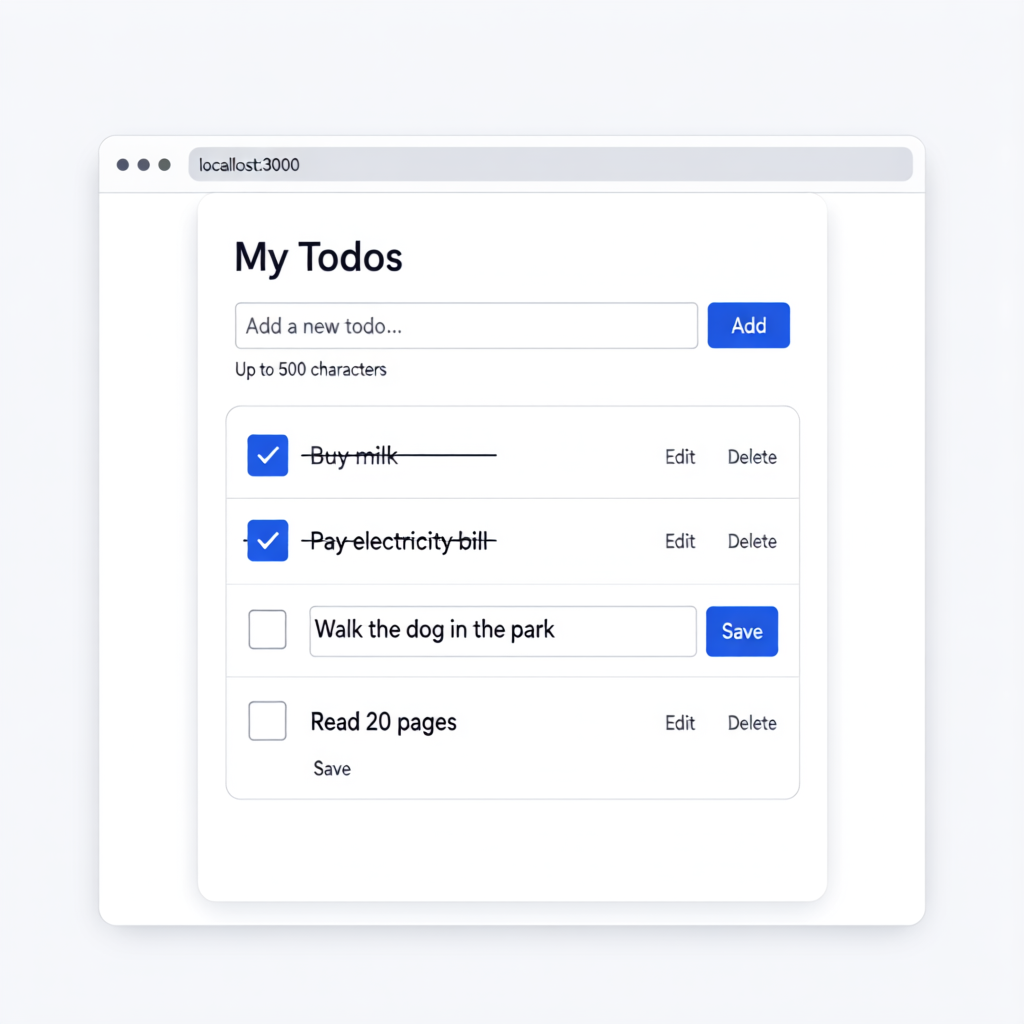
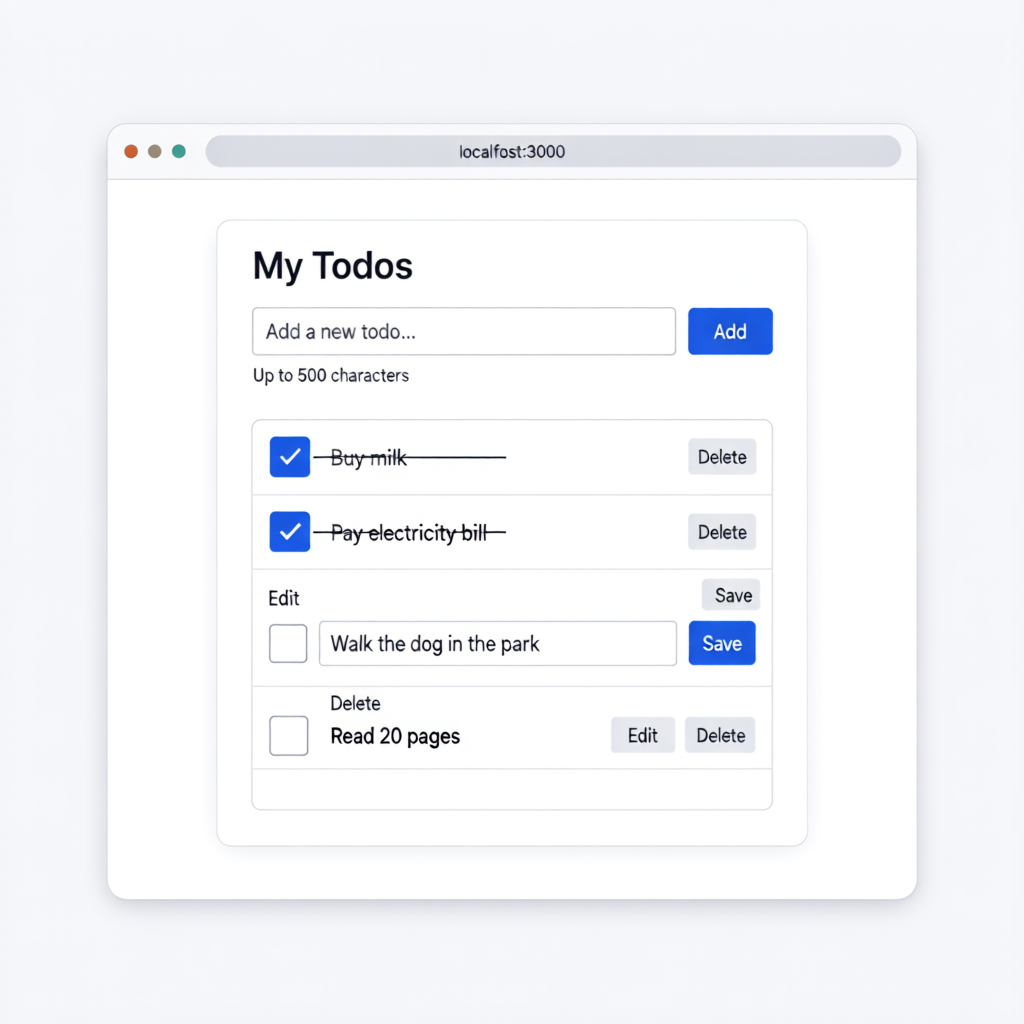
designs: mockups updated — done rows hide edit

diff --git a/designs/mockups/README.md b/designs/mockups/README.md
@@ -7,12 +7,12 @@ Text and pixel details in them are approximate; the journeys and the API contrac
 
 | Mockup | Journey / state covered | Prompt file |
 |---|---|---|
-| `01-list-populated.png` | J1/J2/J3/J5 main view — list loaded, oldest first, done + not-done rows, create row, per-row edit/delete | `prompts/01-list-populated.json` |
+| `01-list-populated.png` | J1/J2/J3/J5 main view — list loaded, oldest first, done + not-done rows (done: Delete only, not-done: Edit + Delete), create row | `prompts/01-list-populated.json` |
 | `02-list-empty.png` | J1 empty state, J5 post-delete — distinct empty message, create input ready | `prompts/02-list-empty.json` |
 | `03-create-error.png` | J2 rejected create — "text is required" on the create control, list unchanged | `prompts/03-create-error.json` |
-| `04-edit-row.png` | J4 edit + rejected edit — inline edit with Save/Cancel, done state kept, rejection reason on its row | `prompts/04-edit-row.json` |
+| `04-edit-row.png` | J4 edit — inline edit with prefilled input + Save (rejected-edit "text is required" surface is shown in 03, same message) | `prompts/04-edit-row.json` |
 | `05-load-error.png` | J1 load failure — stated "could not load" + Retry, distinct from empty | `prompts/05-load-error.json` |
-| `06-missing-todo.png` | J6 stale operation — per-row "todo does not exist", no success pretense | `prompts/06-missing-todo.json` |
+| `06-missing-todo.png` | J6 stale operation — "todo does not exist" banner above the list, rows rendered unchanged, no success pretense | `prompts/06-missing-todo.json` |
 
 ## Generation recipe
 
@@ -27,3 +27,5 @@ Figma-style JSON; each prompt file holds the exact caption used, so every render
 - These are AI-generated diffusion references (ming-image-design): text rendering is imperfect; a stray duplicate label may appear (04 shows a small stray "Save" under row 4 — ignore it; the edit row's Save button is the real one).
 - Strikethrough lines on done rows may extend past the text or cross the checkbox (visual artifact only; the checkbox itself is the done indicator).
 - 06 depicts three todos while other mockups show four — deliberate simplification after the renderer duplicated rows; journeys use four as illustrative copy only.
+- Set regenerated for the frozen-done-text rule (`docs: done todos reject text edits`): done rows intentionally lack an Edit control — checked box + strikethrough + Delete only; not-done rows keep Edit + Delete.
+- Observed in this regeneration pass: stray duplicate labels ghosting into adjacent rows (01, 04), one empty phantom row under the list (03), and 06's done rows leaked an "Edit" label the caption forbids — ignore stray labels; checkbox state is the done indicator.

diff --git a/__log__/2026-10-04-mockups-done-edit-frozen.md b/__log__/2026-10-04-mockups-done-edit-frozen.md
@@ -1,0 +1,7 @@
+```json
+{"task":"mockups updated — done rows hide edit","status":"done","date":"2026-10-04"}
+```
+
+- Regenerated `01-list-populated.png`, `03-create-error.png`, `04-edit-row.png`, `06-missing-todo.png` (ming-image, same pipeline) so the frozen-done-text rule reads visually: done rows show checkbox + strikethrough + Delete only, no Edit; not-done rows keep checkbox + Edit + Delete. Prompts updated with explicit per-row button wording and declared render counts ("Edit" on the not-done rows only, "Delete" on every row).
+- 04 keeps the save-on-Save-only edit row (inline input prefilled "Walk the dog in the park"); 06 keeps the three-todo simplification with the red banner above the list; 02/05 untouched — list states unaffected by the rule.
+- Render artifacts noted and documented in `designs/mockups/README.md`: ghost stray labels near rows in 01/04, one phantom empty row in 03, and 06's done rows leaked an Edit label — diffusion text-render limitation, not a caption omission; captions carry the rule explicitly.
